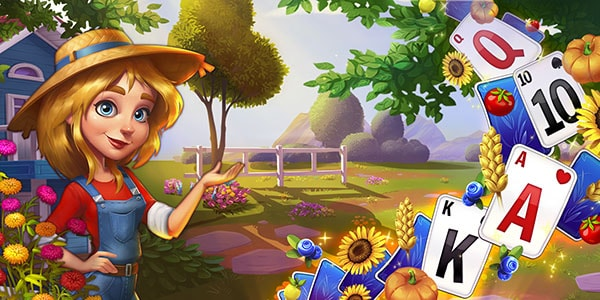
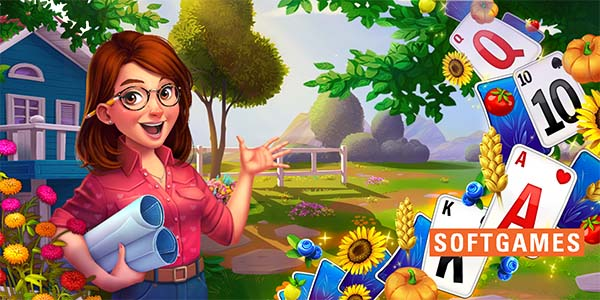
Updated Instant Games hEader

diff --git a/index.html b/index.html
@@ -73,6 +73,6 @@ title: Bernd Beyreuther. Game Producer.
 </main>
 
 <footer>
-    <div style="font-size:0.7em; color:#aaaaaa;"> Updated Thursday 2021-Sep-16 - Get vaccinated!</div>
+    <div style="font-size:0.7em; color:#aaaaaa;"> Updated Tuesday 2021-Nov-09</div>
 </footer>
 
